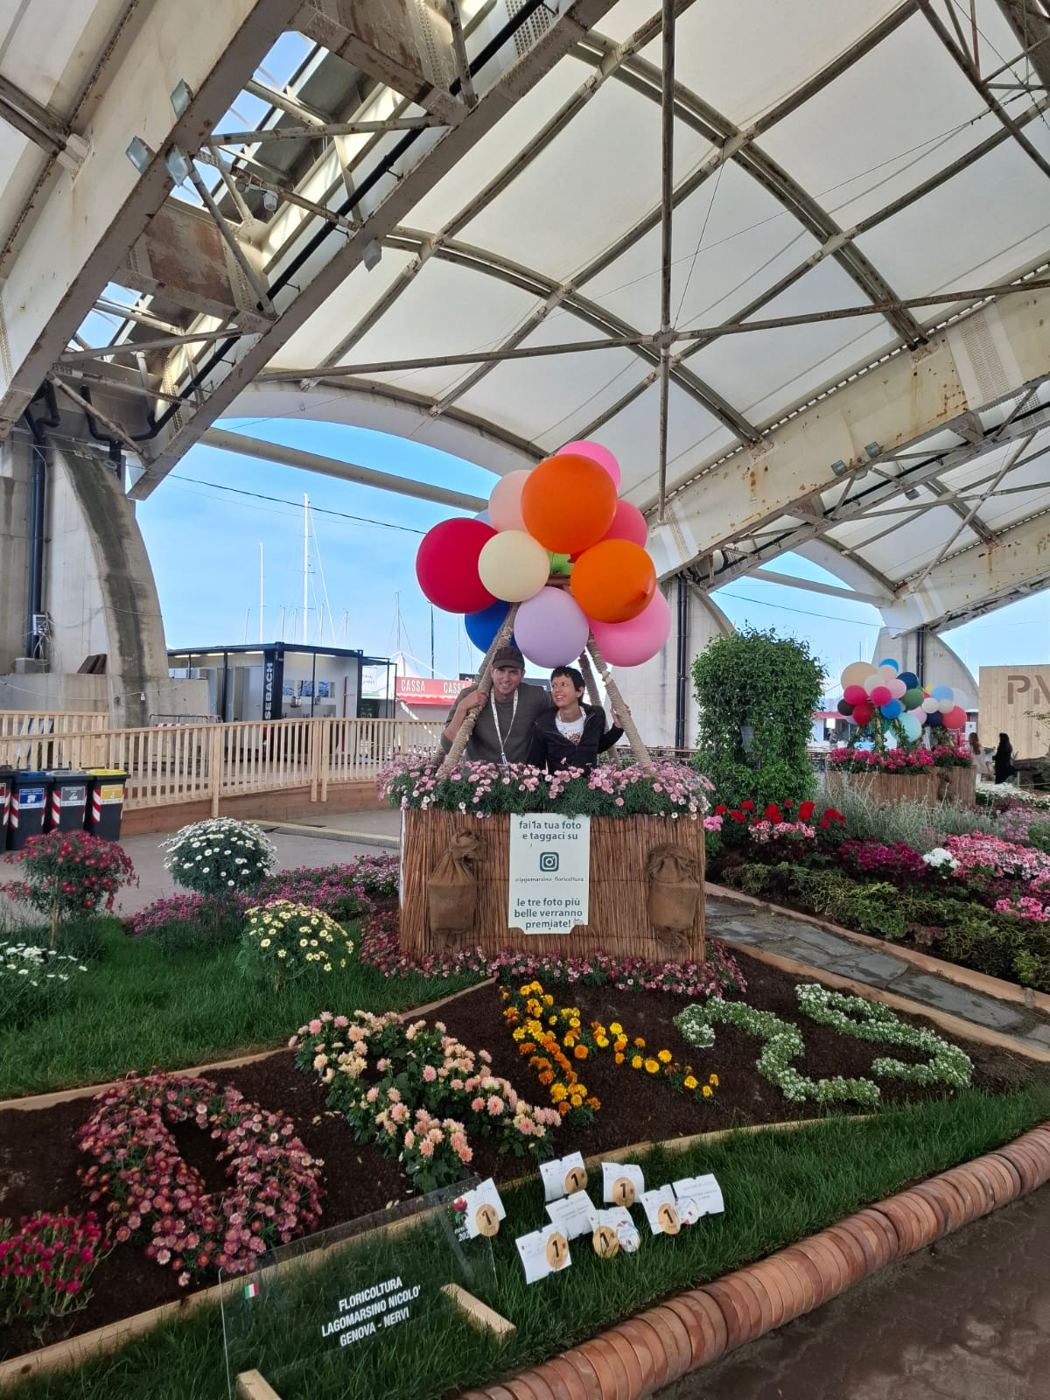
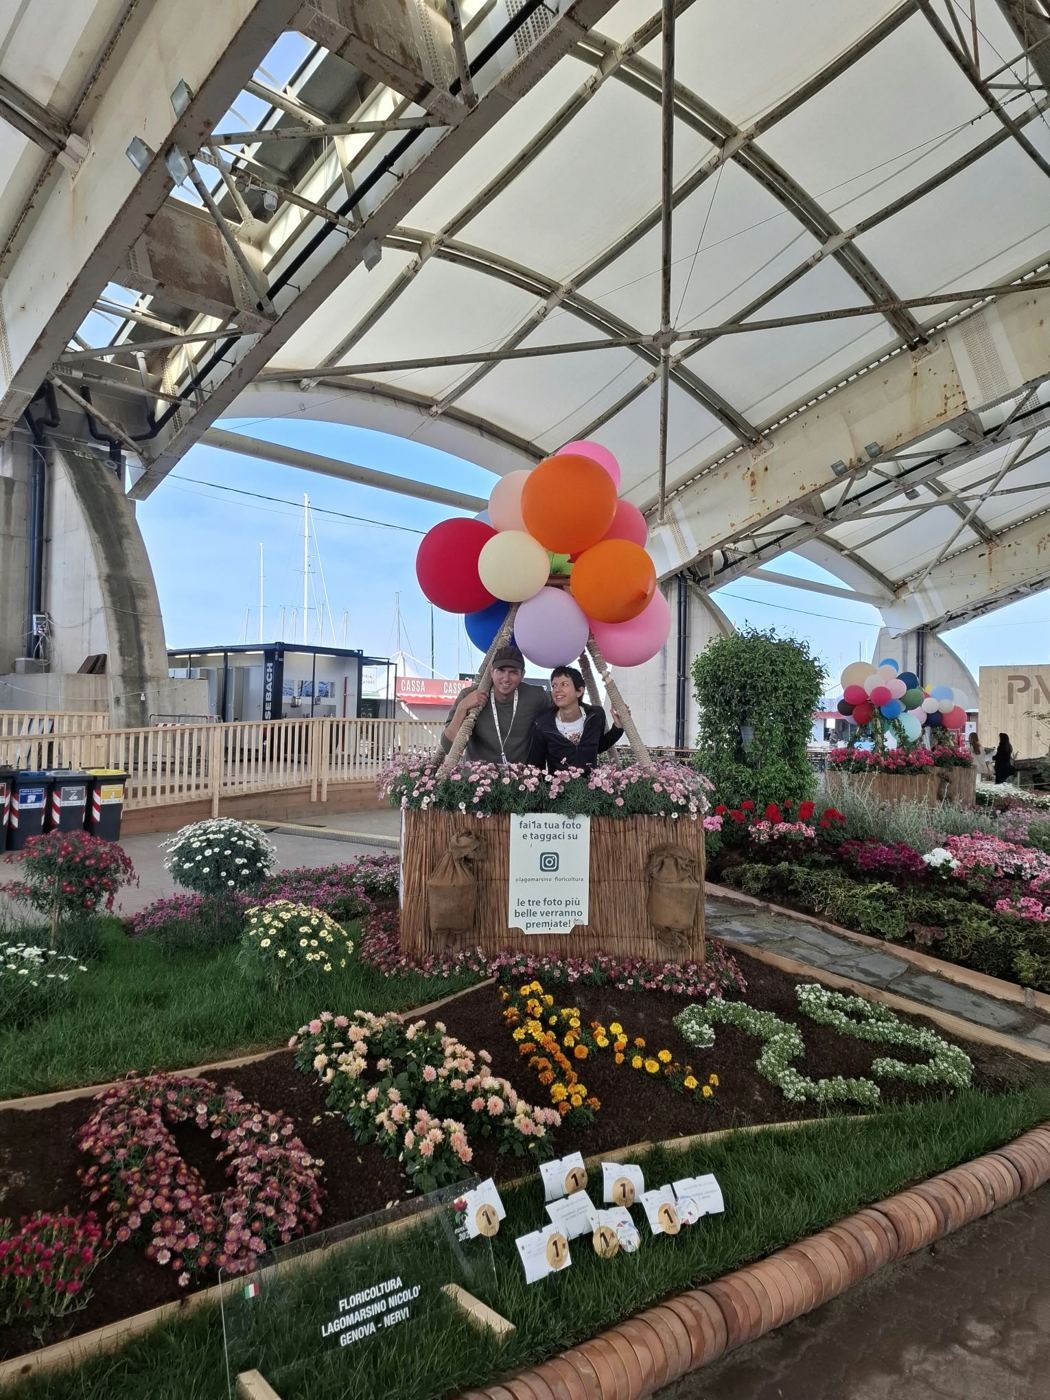
Euroflora 2025: premi e nuove foto
Claude-Session: https://claude.ai/code/session_01SDBEvBjqx9cbkaBm3E6mMs

diff --git a/index.html b/index.html
@@ -178,8 +178,8 @@ section{padding:64px 0}
 .euroflora img{width:100%;height:100%;object-fit:cover;border-radius:var(--r)}
 @media (max-width:700px){.euroflora{grid-template-columns:1fr 1fr;height:auto}.euroflora img:first-child{grid-column:1/-1;aspect-ratio:3/2}.euroflora img:not(:first-child){aspect-ratio:2/3}}
 
-.euroflora.e25{grid-template-columns:1fr 1fr;height:520px}
-@media (max-width:700px){.euroflora.e25 img:first-child{grid-column:auto}.euroflora.e25 img{aspect-ratio:3/4}}
+.euroflora.e25{grid-template-columns:1fr 1fr 1fr;height:480px}
+@media (max-width:700px){.euroflora.e25 img:first-child{grid-column:auto}.euroflora.e25 img{aspect-ratio:3/4}.euroflora.e25 img:last-child{grid-column:1/-1;aspect-ratio:4/3}}
 
 .comp-grid{display:grid;grid-template-columns:repeat(4,1fr);gap:12px}
 .comp-grid img{width:100%;height:100%;aspect-ratio:4/5;object-fit:cover;border-radius:var(--r);display:block}
@@ -327,10 +327,11 @@ footer p{margin:4px 0}
   <div class="wrap" style="margin-top:48px">
     <div class="kicker">Fiere ed eventi</div>
     <h3 style="font-size:clamp(26px,4vw,34px);margin-bottom:8px">Le nostre piante a Euroflora e non solo</h3>
-    <p style="margin:0 0 18px;color:var(--muted);max-width:60ch"><strong style="color:var(--ink)">2025, Waterfront di Levante.</strong> Un'aiuola fiorita con la mongolfiera di palloncini dove i visitatori si fermavano a fare la foto. Il nostro allestimento ha ricevuto diversi primi premi.</p>
+    <p style="margin:0 0 18px;color:var(--muted);max-width:60ch"><strong style="color:var(--ink)">2025, Waterfront di Levante.</strong> Un'aiuola fiorita con la mongolfiera di palloncini dove i visitatori si fermavano a fare la foto. Il nostro allestimento ha ricevuto <strong style="color:var(--ink)">6 primi premi e 2 menzioni della giuria</strong>.</p>
     <div class="euroflora e25">
       <img src="media/euroflora25-2.jpg" alt="Allestimento Floricoltura Lagomarsino a Euroflora 2025: cesta a mongolfiera con palloncini e aiuole fiorite, con i cartellini dei primi premi" loading="lazy">
       <img src="media/euroflora25-1.jpg" alt="Aiuole di begonie, margherite e tagete bordate di vasi in terracotta a Euroflora 2025" loading="lazy">
+      <img src="media/euroflora25-premi.jpg" alt="I sei primi premi e le due menzioni della giuria vinti a Euroflora 2025" loading="lazy">
     </div>
     <p style="margin:28px 0 18px;color:var(--muted);max-width:60ch"><strong style="color:var(--ink)">2022, Parchi di Nervi.</strong> Abbiamo partecipato a Euroflora con un allestimento intorno alla fontana: margherite, gerani, felci e cesti fioriti coltivati nelle nostre serre.</p>
     <div class="euroflora">
